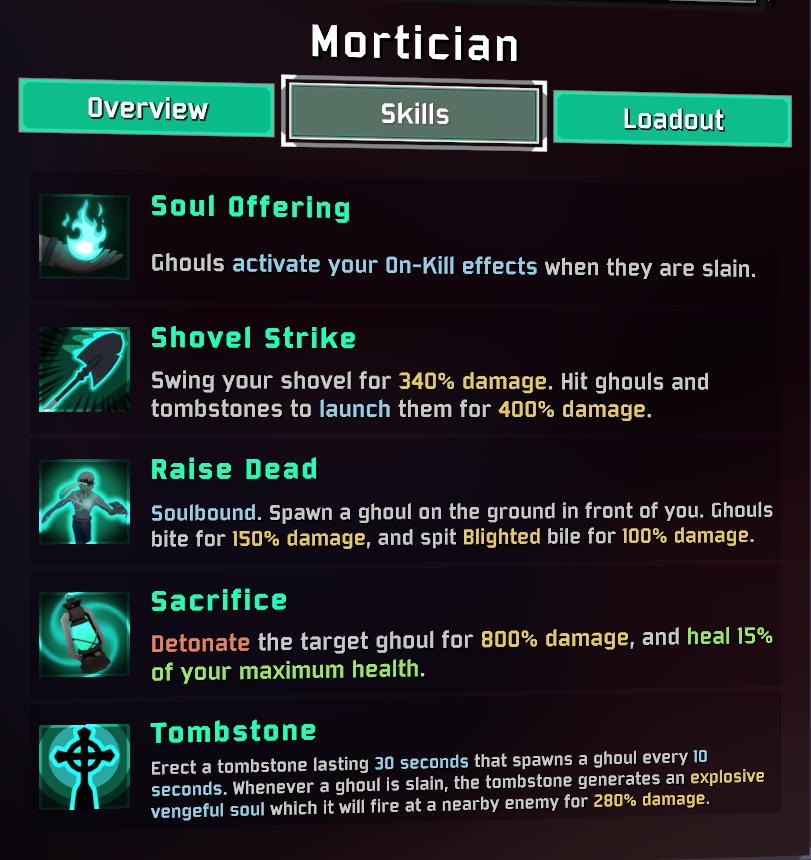
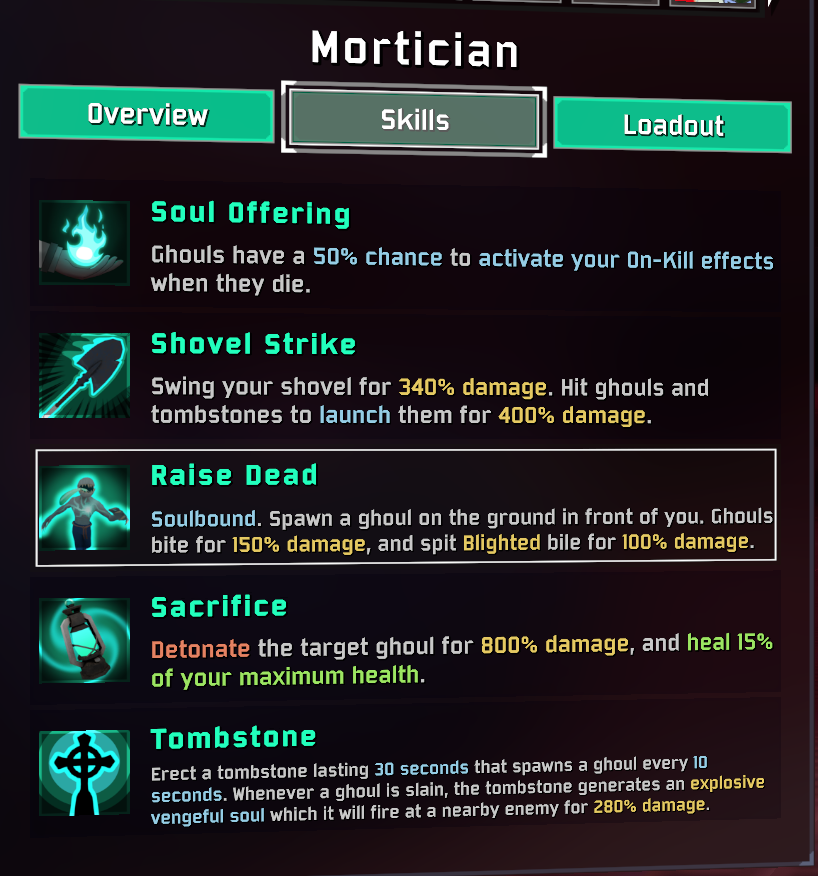
Nerfed Mortician's passive pretty heavily, but made it configurable and affected by luck. Also added a luck check to the aspect roll behavior as well. Also fixed a basemod bug that happened after Mortician died with a tombstone up. Revives left the existing ghouls & tombstone in a broken state, prev

diff --git a/EvenMoreBalancedMortician/Patches/GhoulAspectPatch.cs b/EvenMoreBalancedMortician/Patches/GhoulAspectPatch.cs
@@ -32,43 +32,43 @@ internal static class GhoulAspectPatch
             return;
 
         var ghoulInventory = self.characterBody ? self.characterBody.inventory : null;
-        var ownerInventory = self.ownerBody ? self.ownerBody.inventory : null;
-        if (!ghoulInventory || !ownerInventory)
+        var owner = self.ownerBody ? self.ownerBody.master : null;
+        if (!ghoulInventory || !owner || !owner.inventory)
             return;
 
-        InheritAspectEquipment(ownerInventory, ghoulInventory);
+        InheritAspectEquipment(owner, ghoulInventory);
 
-        foreach (var item in ownerInventory.itemAcquisitionOrder)
+        foreach (var item in owner.inventory.itemAcquisitionOrder)
         {
             if (!IsAspectItem(item))
                 continue;
 
             LogFirstDetection("item", ItemCatalog.GetItemDef(item).name);
-            InheritAspectItemStacks(item, ownerInventory, ghoulInventory);
+            InheritAspectItemStacks(item, owner, ghoulInventory);
         }
     }
 
-    private static void InheritAspectEquipment(Inventory ownerInventory, Inventory ghoulInventory)
+    private static void InheritAspectEquipment(CharacterMaster owner, Inventory ghoulInventory)
     {
-        var equipment = ownerInventory.currentEquipmentIndex;
+        var equipment = owner.inventory.currentEquipmentIndex;
         if (!IsAspectEquipment(equipment))
             return;
 
         LogFirstDetection("equipment", EquipmentCatalog.GetEquipmentDef(equipment).name);
-        if (!RollInheritChance())
+        if (!RollInheritChance(owner))
             return;
 
         ghoulInventory.SetEquipmentIndex(equipment, false);
     }
 
-    private static void InheritAspectItemStacks(ItemIndex aspect, Inventory ownerInventory, Inventory ghoulInventory)
+    private static void InheritAspectItemStacks(ItemIndex aspect, CharacterMaster owner, Inventory ghoulInventory)
     {
         var inheritedStacks = 0;
-        var ownedStacks = ownerInventory.GetItemCountEffective(aspect);
+        var ownedStacks = owner.inventory.GetItemCountEffective(aspect);
 
         for (var stack = 0; stack < ownedStacks; stack++)
         {
-            if (RollInheritChance())
+            if (RollInheritChance(owner))
                 inheritedStacks++;
         }
 
@@ -85,7 +85,7 @@ internal static class GhoulAspectPatch
     private static bool IsAspectItem(ItemIndex item)
         => ItemCatalog.GetItemDef(item).name.IndexOf(AspectNameFragment, StringComparison.OrdinalIgnoreCase) >= 0;
 
-    private static bool RollInheritChance() => Util.CheckRoll(_inheritChancePercent.Value);
+    private static bool RollInheritChance(CharacterMaster owner) => Util.CheckRoll(_inheritChancePercent.Value, owner);
 
     private static void LogFirstDetection(string aspectKind, string aspectName)
     {

diff --git a/EvenMoreBalancedMortician/Patches/MinionOwnerPatch.cs b/EvenMoreBalancedMortician/Patches/MinionOwnerPatch.cs
@@ -1,0 +1,68 @@
+using System;
+using Mono.Cecil.Cil;
+using MonoMod.Cil;
+using MonoMod.RuntimeDetour;
+using Morris.Components;
+using RoR2;
+
+namespace EvenMoreBalancedMortician.Patches;
+
+// Mortician's minions remember their owner's body from when they were created, so they lose him once he dies, even if he is revived.
+internal static class MinionOwnerPatch
+{
+    private static ILHook _tombstoneSpawnHook;
+
+    public static void Install()
+    {
+        var tombstoneSpawn = typeof(TombstoneController).GetMethod(nameof(TombstoneController.SpawnGhoulAtClosestNode));
+        _tombstoneSpawnHook = new ILHook(tombstoneSpawn, AdoptGhoulsRaisedWithoutOwner);
+
+        CharacterBody.onBodyStartGlobal += ReclaimMinions;
+    }
+
+    private static void AdoptGhoulsRaisedWithoutOwner(ILContext il)
+    {
+        var cursor = new ILCursor(il);
+        var foundSummon = cursor.TryGotoNext(MoveType.After,
+            instruction => instruction.MatchCallvirt<MasterSummon>(nameof(MasterSummon.Perform)));
+
+        if (!foundSummon)
+        {
+            EvenMoreBalancedMorticianPlugin.Log.LogError("Could not find where a tombstone raises its ghouls; ghouls it raises after Mortician dies will have no owner.");
+            return;
+        }
+
+        cursor.Emit(OpCodes.Ldarg_0);
+        cursor.EmitDelegate<Func<CharacterMaster, TombstoneController, CharacterMaster>>(AdoptGhoul);
+    }
+
+    private static CharacterMaster AdoptGhoul(CharacterMaster ghoul, TombstoneController tombstone)
+    {
+        if (!ghoul || ghoul.minionOwnership.ownerMaster)
+            return ghoul;
+
+        var owner = MinionOwner.MasterOf(tombstone.characterBody);
+        if (owner)
+            ghoul.minionOwnership.SetOwner(owner);
+
+        return ghoul;
+    }
+
+    private static void ReclaimMinions(CharacterBody body)
+    {
+        var ownerLocator = body.GetComponent<TombstoneLocator>();
+        if (!ownerLocator || !body.master)
+            return;
+
+        foreach (var minion in UnityEngine.Object.FindObjectsOfType<MorrisMinionController>())
+        {
+            if (MinionOwner.MasterOf(minion.characterBody) != body.master)
+                continue;
+
+            minion.owner = body.gameObject;
+            minion.ownerBody = body;
+        }
+
+        TombstoneSoulPatch.HandOverTombstones(body.master, ownerLocator);
+    }
+}

diff --git a/EvenMoreBalancedMortician/MorticianSettings.cs b/EvenMoreBalancedMortician/MorticianSettings.cs
@@ -61,6 +61,7 @@ internal sealed class MorticianSettings
     public PresetSetting<float> GhoulSpitDamagePercent { get; }
     public PresetSetting<float> GhoulSpitProcCoefficient { get; }
     public PresetSetting<float> GhoulAspectInheritChance { get; }
+    public PresetSetting<float> GhoulOnKillTriggerChance { get; }
 
     public PresetSetting<float> SacrificeCooldown { get; }
     public PresetSetting<bool> DetonationScalesWithMortician { get; }
@@ -194,9 +195,13 @@ internal sealed class MorticianSettings
             Presets(original: 1f, balancedMortician: 1f, evenMoreBalanced: 0.7f),
             vanilla: ProcCoefficientVanilla);
         GhoulAspectInheritChance = Bind(SecondarySection, "Aspect Inherit Chance Percent",
-            "Chance for a newly raised ghoul to copy each elite aspect Mortician holds. An aspect equipment rolls once. Aspect items roll once for every copy you hold, and each success passes on one copy. 0 disables. Ghouls never copy any other items or equipment.",
+            "Chance for a newly raised ghoul to copy each elite aspect Mortician holds. An aspect equipment rolls once. Aspect items roll once for every copy you hold, and each success passes on one copy. Luck (such as 57 Leaf Clover) improves each roll. 0 disables. Ghouls never copy any other items or equipment.",
             Presets(original: 100f, balancedMortician: 0f, evenMoreBalanced: 33f),
             note: "Aspect items are any item with \"Aspect\" in its name, such as ZetAspects' aspect items. The Original preset matches the base mod for aspect equipment, but the base mod never passed on aspect items.");
+        GhoulOnKillTriggerChance = Bind(SecondarySection, "On-Kill Trigger Chance Percent",
+            "Chance for a dying ghoul to trigger Mortician's on-kill items, as if he had killed it. Rolls on every ghoul death: slain by enemies, sacrificed, decayed, or replaced under the Ghoul Limit. Luck (such as 57 Leaf Clover) improves the roll. 0 disables.",
+            Presets(original: 100f, balancedMortician: 100f, evenMoreBalanced: 50f),
+            note: "Ghouls raised by the tombstone or by Restless Grave roll too.");
 
         SacrificeCooldown = Bind(UtilitySection, "Cooldown",
             "Seconds Sacrifice takes to recharge. Cooldown reduction items still apply.",

diff --git a/EvenMoreBalancedMortician/Patches/GhoulOnKillPatch.cs b/EvenMoreBalancedMortician/Patches/GhoulOnKillPatch.cs
@@ -1,0 +1,44 @@
+using System;
+using EvenMoreBalancedMortician.Presets;
+using MonoMod.Cil;
+using MonoMod.RuntimeDetour;
+using Morris.Components;
+using RoR2;
+
+namespace EvenMoreBalancedMortician.Patches;
+
+internal static class GhoulOnKillPatch
+{
+    private static ILHook _ghoulDeathHook;
+    private static PresetSetting<float> _triggerChancePercent;
+
+    public static void Install(PresetSetting<float> triggerChancePercent)
+    {
+        _triggerChancePercent = triggerChancePercent;
+
+        var ghoulDeath = typeof(MorrisMinionController).GetMethod(nameof(MorrisMinionController.OnDeathStart));
+        _ghoulDeathHook = new ILHook(ghoulDeath, RollForOnKillTrigger);
+    }
+
+    private static void RollForOnKillTrigger(ILContext il)
+    {
+        var cursor = new ILCursor(il);
+        var foundOnKillTrigger = cursor.TryGotoNext(
+            instruction => instruction.MatchCallvirt<GlobalEventManager>(nameof(GlobalEventManager.OnCharacterDeath)));
+
+        if (!foundOnKillTrigger)
+        {
+            EvenMoreBalancedMorticianPlugin.Log.LogError("Could not find where a dying ghoul triggers on-kill items; the On-Kill Trigger Chance setting will not work.");
+            return;
+        }
+
+        cursor.Remove();
+        cursor.EmitDelegate<Action<GlobalEventManager, DamageReport>>(TriggerOnKillByChance);
+    }
+
+    private static void TriggerOnKillByChance(GlobalEventManager eventManager, DamageReport ghoulDeath)
+    {
+        if (Util.CheckRoll(_triggerChancePercent.Value, ghoulDeath.attackerMaster))
+            eventManager.OnCharacterDeath(ghoulDeath);
+    }
+}

diff --git a/EvenMoreBalancedMortician/SkillDescriptions.cs b/EvenMoreBalancedMortician/SkillDescriptions.cs
@@ -19,6 +19,8 @@ internal static class SkillDescriptions
 
     private static Dictionary<string, string> BuildDescriptions(MorticianSettings settings) => new()
     {
+        [TokenPrefix + "PASSIVE_DESCRIPTION"] = PassiveDescription(settings.GhoulOnKillTriggerChance.Value),
+
         [TokenPrefix + "PRIMARY_SHOVEL_DESCRIPTION"] =
             $"Swing your shovel for {Damage(settings.ShovelDamagePercent.Value)}. " +
             $"Hit ghouls and tombstones to <style=cIsUtility>launch</style> them for {Damage(settings.LaunchDamagePercent.Value)}.",
@@ -36,6 +38,13 @@ internal static class SkillDescriptions
 
         [RestlessGraveSkill.NameToken] = "Restless Grave",
         [RestlessGraveSkill.DescriptionToken] = TombstoneDescription(settings) + RestlessGraveDescription(settings),
+    };
+
+    private static string PassiveDescription(float triggerChancePercent) => triggerChancePercent switch
+    {
+        <= 0f => "Ghouls do not activate your On-Kill effects.",
+        >= 100f => "Ghouls <style=cIsUtility>activate your On-Kill effects</style> when they die.",
+        _ => $"Ghouls have a <style=cIsUtility>{Number(triggerChancePercent)}% chance</style> to <style=cIsUtility>activate your On-Kill effects</style> when they die.",
     };
 
     private static string TombstoneDescription(MorticianSettings settings) =>

diff --git a/EvenMoreBalancedMortician/Patches/TombstoneSoulPatch.cs b/EvenMoreBalancedMortician/Patches/TombstoneSoulPatch.cs
@@ -7,6 +7,7 @@ using Mono.Cecil.Cil;
 using MonoMod.Cil;
 using MonoMod.RuntimeDetour;
 using Morris.Components;
+using RoR2;
 using UnityEngine;
 
 namespace EvenMoreBalancedMortician.Patches;
@@ -53,6 +54,18 @@ internal static class TombstoneSoulPatch
         var newestRemaining = _liveTombstones.LastOrDefault(tombstone => tombstone.ownerLocator == ownerLocator);
         if (newestRemaining)
             ownerLocator.SetActiveTombstone(newestRemaining);
+    }
+
+    public static void HandOverTombstones(CharacterMaster owner, TombstoneLocator ownerLocator)
+    {
+        var ownedTombstones = _liveTombstones.Where(tombstone => MinionOwner.MasterOf(tombstone.characterBody) == owner).ToList();
+        if (ownedTombstones.Count == 0)
+            return;
+
+        foreach (var tombstone in ownedTombstones)
+            tombstone.ownerLocator = ownerLocator;
+
+        ownerLocator.SetActiveTombstone(ownedTombstones.Last());
     }
 
     private static void DeliverSoulsBySetting(ILContext il)

diff --git a/EvenMoreBalancedMortician/EvenMoreBalancedMorticianPlugin.cs b/EvenMoreBalancedMortician/EvenMoreBalancedMorticianPlugin.cs
@@ -40,12 +40,14 @@ public class EvenMoreBalancedMorticianPlugin : BaseUnityPlugin
         ShovelDamageSourcePatch.Install(_settings.ShovelCountsAsPrimarySkill);
         GhoulEquipmentPatch.Install();
         GhoulAspectPatch.Install(_settings.GhoulAspectInheritChance);
+        GhoulOnKillPatch.Install(_settings.GhoulOnKillTriggerChance);
         ProcCoefficientPatch.Install(_settings);
         GhoulLimitPatch.Install(_settings.GhoulLimit);
         DetonationDamagePatch.Install(_settings.DetonationScalesWithMortician);
         TombstoneDurationPatch.Install(_settings.TombstoneDuration);
         TombstoneLimitPatch.Install(_settings.LysateCellAddsTombstone);
         TombstoneSoulPatch.Install(_settings.TombstoneSoulRecipient);
+        MinionOwnerPatch.Install();
         InstallAncientScepterSupport();
 
         ApplySettings();

diff --git a/EvenMoreBalancedMortician/Scepter/RaiseRadiusIndicator.cs b/EvenMoreBalancedMortician/Scepter/RaiseRadiusIndicator.cs
@@ -43,7 +43,7 @@ internal sealed class RaiseRadiusIndicator : MonoBehaviour
         if (!_indicator)
             return;
 
-        var isVisible = _isShown.Value && _radius.Value > 0f && RestlessGraveSkill.IsEquippedBy(TombstoneOwner.BodyOf(_tombstone));
+        var isVisible = _isShown.Value && _radius.Value > 0f && RestlessGraveSkill.IsEquippedBy(MinionOwner.BodyOf(_tombstone));
         if (_indicator.activeSelf != isVisible)
             _indicator.SetActive(isVisible);
 

diff --git a/EvenMoreBalancedMortician/MinionOwner.cs b/EvenMoreBalancedMortician/MinionOwner.cs
@@ -1,0 +1,15 @@
+using RoR2;
+
+namespace EvenMoreBalancedMortician;
+
+internal static class MinionOwner
+{
+    public static CharacterMaster MasterOf(CharacterBody minion)
+        => minion && minion.master ? minion.master.minionOwnership.ownerMaster : null;
+
+    public static CharacterBody BodyOf(CharacterBody minion)
+    {
+        var ownerMaster = MasterOf(minion);
+        return ownerMaster ? ownerMaster.GetBody() : null;
+    }
+}

diff --git a/EvenMoreBalancedMortician/Scepter/GraveRaiser.cs b/EvenMoreBalancedMortician/Scepter/GraveRaiser.cs
@@ -16,7 +16,7 @@ internal sealed class GraveRaiser : MonoBehaviour
     private Run.FixedTimeStamp _readyAt = Run.FixedTimeStamp.negativeInfinity;
 
     private TeamIndex Team => _tombstoneBody.teamComponent.teamIndex;
-    private CharacterBody Owner => TombstoneOwner.BodyOf(_tombstoneBody);
+    private CharacterBody Owner => MinionOwner.BodyOf(_tombstoneBody);
 
     private void Awake()
     {

diff --git a/EvenMoreBalancedMortician/Thunderstore/README.md b/EvenMoreBalancedMortician/Thunderstore/README.md
@@ -26,6 +26,11 @@ Sacrifice now scales with _your_ damage stat instead of the ghoul's. Ghouls don'
 explosion fell off hard late in a run. It still kinda does, but at least you can _technically_ scale it. Now it deals 800%
 of your damage over a slightly bigger radius, and anything that boosts your damage, (like Shaped Glass) boosts it too.
 
+Mortician's passive in the base mod was pretty nutty. Every single ghoul death, regardless of how it happened, counted as
+a on-kill proc. When you've got a ton of backup mags, an ancient scepter, and a lysate cell things got pretty insane.
+but ghouls you sacrifice and ghouls that simply decay, too. Ghouls are cheap, so that's a guaranteed on-kill proc on
+tap. Now each ghoul death has a 50% chance to trigger your on-kill items instead (affected by Luck).
+
 The tombstone crumbles after 30 seconds instead of sticking around forever, and its vengeful souls hit for 280% instead
 of 350%.
 
@@ -47,7 +52,7 @@ With [Standalone Ancient Scepter](https://thunderstore.io/package/amogus_lovers/
 the Scepter upgrades Tombstone into **Restless Grave**: enemies that die near one of your tombstones rise as ghouls,
 up to one every 3 seconds per tombstone.
 
-![The Restless Grave skill tooltip](https://raw.githubusercontent.com/Delfofthebla/EvenMoreBalancedMortician/master/docs/screenshots/RestlessGrave.png)
+![The Restless Grave Upgrade](https://raw.githubusercontent.com/Delfofthebla/EvenMoreBalancedMortician/master/docs/screenshots/RestlessGrave.png)
 
 A ring on the ground shows the raise radius. Each player can hide it with
 _Visuals → Show Raise Radius_, which only affects their own screen.
@@ -61,7 +66,7 @@ meant to propogate passives like Elite Aspect Equipment, but it's hard to know f
 implementation worked on things like Fuel Array as well (lol). BalancedMortician turned that off entirely, which was fair,
 but I liked ghouls turning elite too much to lose it.
 
-Now each new ghoul has a 33% chance to inherit each aspect you're carrying. That covers aspect equipment, and aspect items
+Now each new ghoul has a 33% chance to inherit each aspect you're carrying (affected by Luck). That covers aspect equipment, and aspect items
 from mods like [ZetAspects](https://thunderstore.io/package/William758/ZetAspects/), which roll once per copy you hold.
 Nothing else is ever copied. If you don't play with ZetAspects, you may want to increase this, but follow your gut.
 

diff --git a/EvenMoreBalancedMortician/Thunderstore/CHANGELOG.md b/EvenMoreBalancedMortician/Thunderstore/CHANGELOG.md
@@ -1,5 +1,9 @@
 #### 1.3.0
 
+**Added**
+- New Config Setting "On-Kill Trigger Chance Percent": the chance for a dying ghoul to trigger your on-kill items. Mortician's passive triggers them on every ghoul death, including sacrificed and decayed ghouls. 50% in the EvenMoreBalanced preset, 100% (unchanged) in the others. The passive's tooltip follows the setting.
+- Luck (57 Leaf Clover, Purity) now applies to the on-kill trigger roll and to every aspect inheritance roll.
+
 **Changed** (Original and BalancedMortician presets)
 
 Neither original mod supported the Lysate Cell or the Ancient Scepter, so these presets now include this mod's support for both. Their balance numbers are unchanged.
@@ -7,6 +11,10 @@ Neither original mod supported the Lysate Cell or the Ancient Scepter, so these 
 - Soul Recipient: Newest → Nearest
 - Restless Grave: off → on
 - Restless Grave Raise Radius: 25 → 30
+
+**Fixed** (base mod bugs)
+- After Mortician died, his tombstone raised ghouls with no owner and logged an error for each one. Ghouls raised while you're dead now belong to you.
+- After a revive (such as Dio's Best Friend), your existing ghouls and tombstones stopped crediting you for their attacks, and your tombstone stopped collecting vengeful souls. They now properly reconnect to you when you're revived.
 
 #### 1.2.0
 
